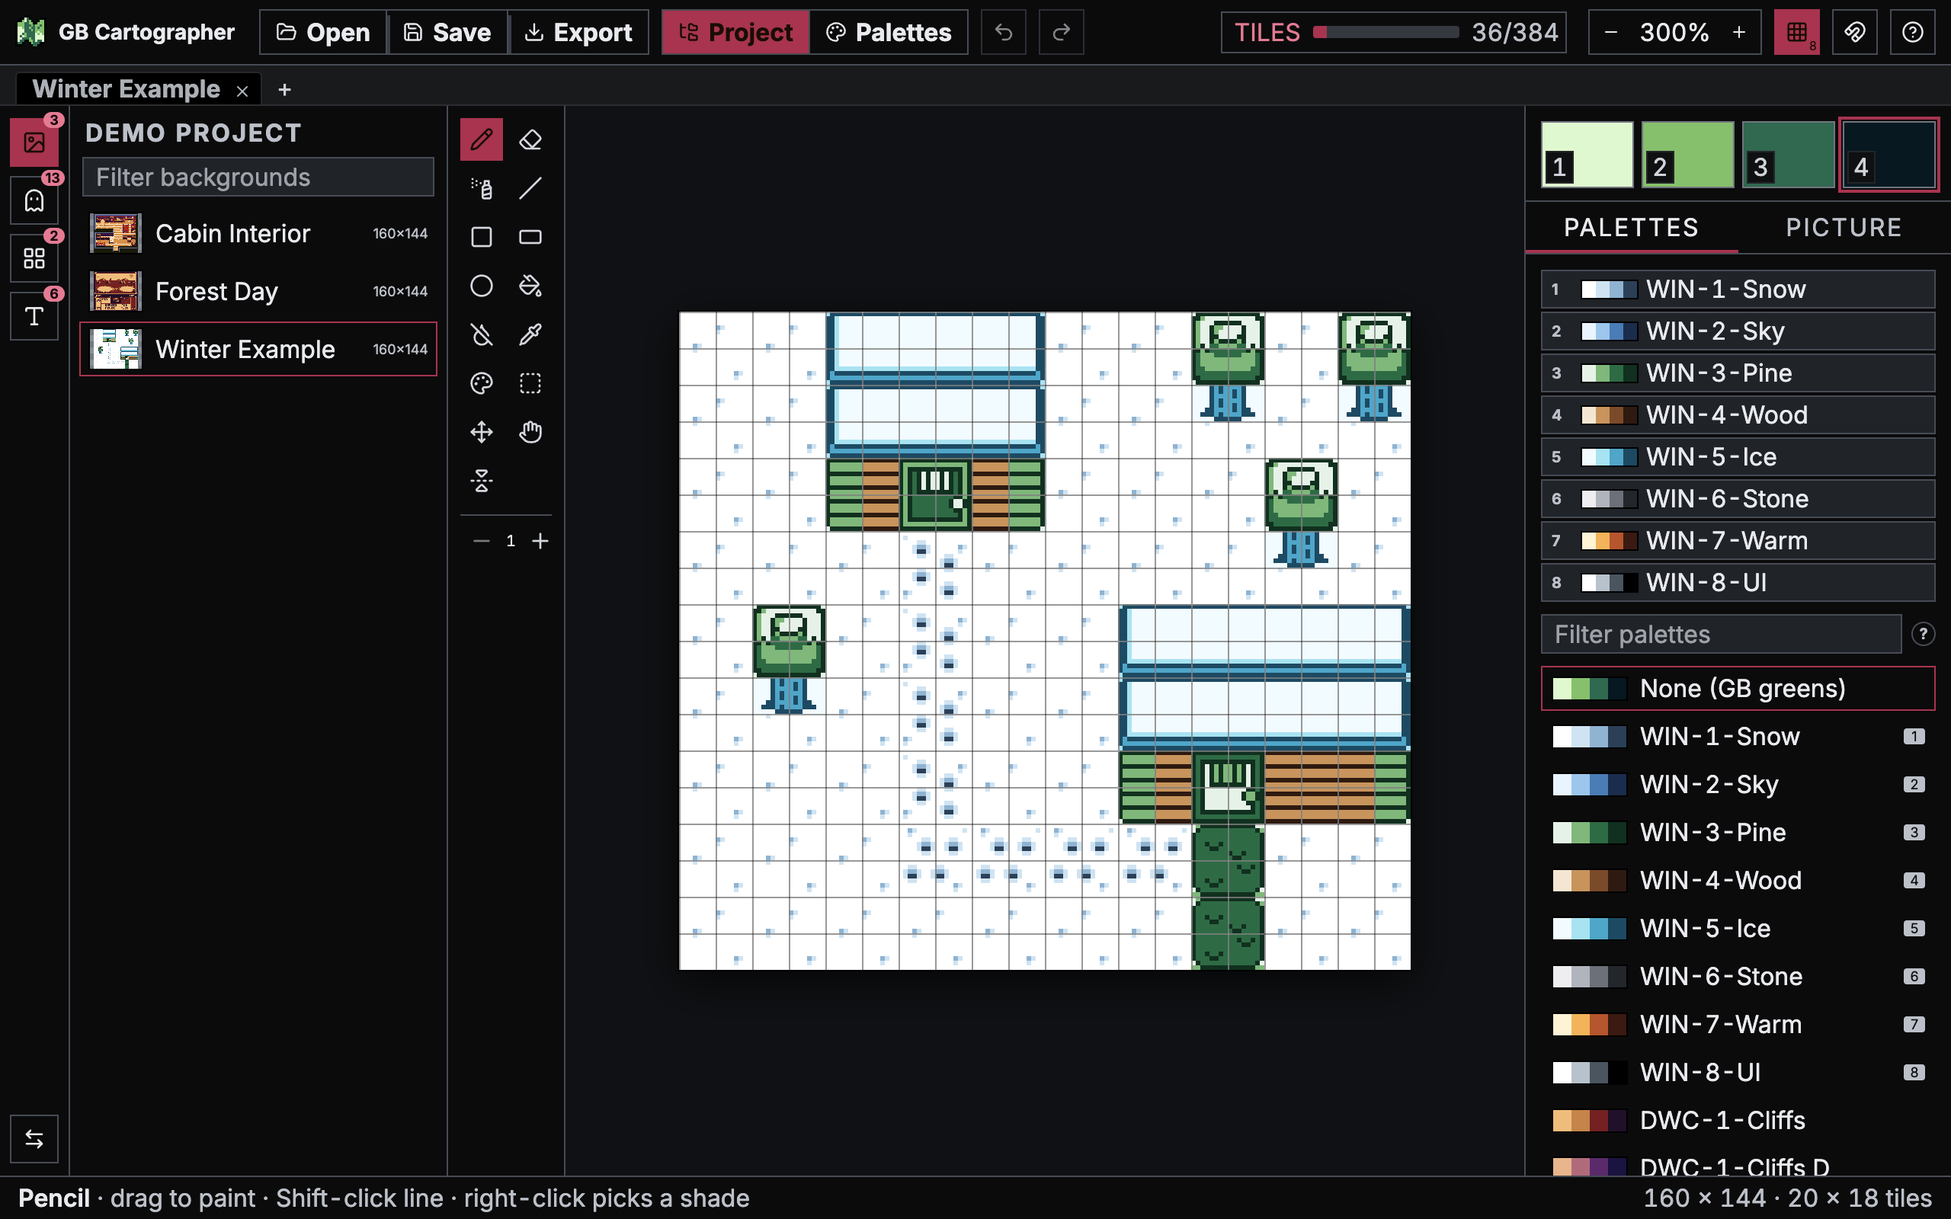
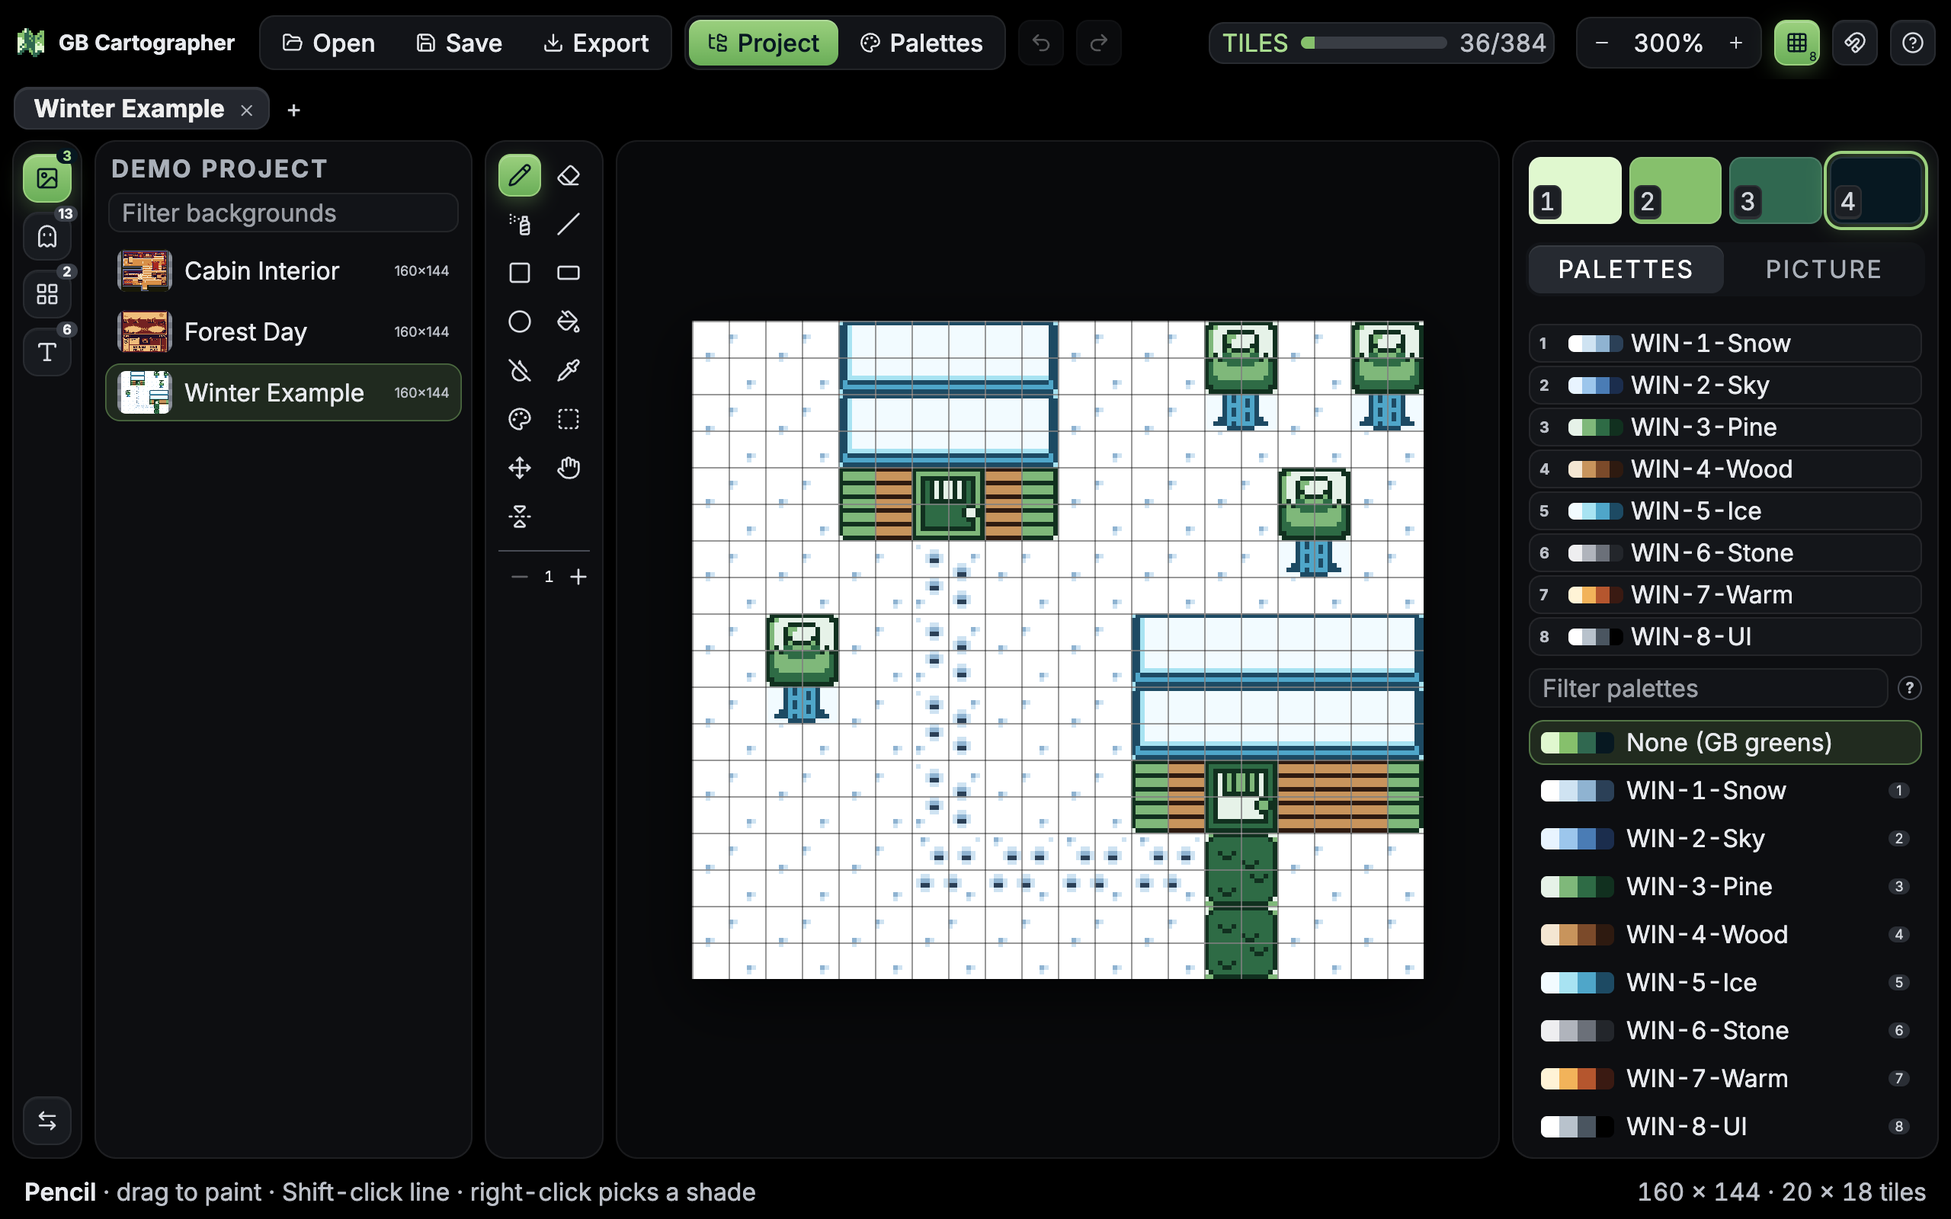
Soft cards restyle and a Game Boy green accent; new README screenshot
Panels are rounded cards, controls rounded layers of gray with a lit accent, tabs and segmented groups
pills. The accent is the Game Boy's mid green with the darkest green for text on it (mauve and maroon
looked too much like GB Studio's pink). The start screen, frames strip and palette manager follow.
The screenshot script hides the toast instead of removing it, which crashed the page.

diff --git a/src/paint.css b/src/paint.css
@@ -303,3 +303,86 @@
 .tool-button:disabled, .quiet-button:disabled, .icon-button:disabled { opacity: .55; }
 .gbp-asset-size, .gbp-frame small, .gbp-slot-button b, .gbp-asset-name { color: var(--muted); }
 .gbp-asset-name { color: var(--ink); }
+
+/* =====================================================================================================
+   Soft cards (the author's pick, 2026-10-09; mockup in review/ui-round3): rounded layers of gray, panels as
+   floating cards, gentle depth, a lit accent. The accent is the Game Boy's mid green; text on it is the darkest.
+   ===================================================================================================== */
+:root { --b-panel: #0d0e11; --b-ctl: #181b20; --b-ctl2: #20242a; --b-edge: rgba(255, 255, 255, .07); }
+:root .gbp-shell { background: #000; }
+:root .gbp-bar { background: #000; border: 0; padding: 10px 10px 6px; gap: 8px; }
+:root .quiet-button { background: var(--b-ctl); border: 1px solid var(--b-edge); border-radius: 8px; color: #e8eaee; min-height: 30px; padding: 0 12px; font-weight: 500; box-shadow: inset 0 1px 0 rgba(255,255,255,.05), 0 1px 2px rgba(0,0,0,.6); }
+:root .quiet-button:is(:hover,.is-hover):not(:disabled) { background: var(--b-ctl2); border-color: rgba(255,255,255,.12); }
+:root .quiet-button.is-down, :root .quiet-button:active:not(:disabled) { background: #121418; box-shadow: inset 0 2px 4px rgba(0,0,0,.6); transform: translateY(1px); }
+:root .quiet-button.active-tool, :root .icon-button.active-tool { background: linear-gradient(var(--acc-hi), var(--acc-lo)); border-color: var(--acc-hi); color: var(--on-acc); box-shadow: inset 0 1px 0 rgba(255,255,255,.22), 0 4px 14px rgba(var(--acc-rgb), .32); }
+:root .quiet-button.primary { background: linear-gradient(var(--acc-hi), var(--acc-lo)); border-color: var(--acc-hi); color: var(--on-acc); font-weight: 600; box-shadow: inset 0 1px 0 rgba(255,255,255,.22), 0 4px 14px rgba(var(--acc-rgb), .30); }
+:root .quiet-button.primary:is(:hover,.is-hover):not(:disabled) { background: linear-gradient(var(--acc-hi), var(--acc)); }
+:root .quiet-button.danger { color: #f08aa0; background: #1d1316; border-color: rgba(240,138,160,.2); }
+:root .quiet-button:disabled, :root .icon-button:disabled, :root .tool-button:disabled { opacity: .4; box-shadow: none; }
+:root .icon-button { background: var(--b-ctl); border: 1px solid var(--b-edge); border-radius: 8px; color: #d9dce2; box-shadow: inset 0 1px 0 rgba(255,255,255,.04); }
+:root .icon-button:is(:hover,.is-hover):not(:disabled) { background: var(--b-ctl2); color: #fff; }
+:root .icon-button.is-down { background: #121418; transform: translateY(1px); }
+:root .gbp-seg { background: #121418; border: 1px solid var(--b-edge); border-radius: 10px; padding: 2px; gap: 2px; overflow: visible; }
+:root .gbp-seg .quiet-button, :root .gbp-seg .icon-button { background: transparent; border: 0; border-radius: 8px; box-shadow: none; }
+:root .gbp-seg .quiet-button:is(:hover,.is-hover):not(:disabled) { background: var(--b-ctl2); }
+:root .gbp-seg .quiet-button.active-tool { background: linear-gradient(var(--acc-hi), var(--acc-lo)); box-shadow: inset 0 1px 0 rgba(255,255,255,.22); }
+:root .gbp-body { gap: 8px; padding: 6px 8px 8px; background: #000; }
+:root .gbp-rail, :root .gbp-project, :root .gbp-tools, :root .gbp-scroller, :root .gbp-side { background: var(--b-panel); border: 1px solid var(--b-edge); border-radius: 14px; }
+:root .gbp-scroller { background: #08090b; }
+:root .gbp-tools { border-radius: 14px; }
+:root .tool-button { background: transparent; border: 1px solid transparent; border-radius: 8px; color: #d9dce2; box-shadow: none; }
+:root .tool-button:is(:hover,.is-hover):not(:disabled) { background: var(--b-ctl2); color: #fff; }
+:root .tool-button.active { background: linear-gradient(var(--acc-hi), var(--acc-lo)); border-color: var(--acc-hi); color: var(--on-acc); border-radius: 8px; box-shadow: inset 0 1px 0 rgba(255,255,255,.22), 0 4px 12px rgba(var(--acc-rgb), .32); }
+:root .map-tabs { background: #000; border: 0; padding: 4px 10px 0; gap: 4px; min-height: 34px; }
+:root .map-tab { background: var(--b-ctl); border: 1px solid var(--b-edge); border-radius: 10px; color: #b3b8c0; padding: 0 6px 0 12px; min-height: 28px; align-self: center; }
+:root .map-tab.active { background: #262a31; color: #fff; box-shadow: inset 0 1px 0 rgba(255,255,255,.08); }
+:root .map-tab:is(:hover,.is-hover) { background: var(--b-ctl2); color: #fff; }
+:root .gbp-rail .icon-button { border-radius: 10px; }
+:root .gbp-rail .icon-button b, :root .gbp-pm-rail .icon-button b { background: #3a3f48; color: #f0f2f5; border-radius: 8px; }
+:root .gbp-rail .icon-button.active-tool b { background: var(--on-acc); color: var(--acc-text); }
+:root .gbp-project h2, :root .eyebrow { color: #aab0b9; }
+:root .gbp-asset { background: transparent; border: 0; border-radius: 10px; padding: 5px 8px; }
+:root .gbp-asset:is(:hover,.is-hover) { background: #15171b; }
+:root .gbp-asset.open { background: #14161a; }
+:root .gbp-asset.selected { background: rgba(var(--acc-rgb), .16); border: 0; box-shadow: inset 0 0 0 1px rgba(var(--acc-rgb), .5); }
+:root .gbp-asset img { border: 0; border-radius: 6px; }
+:root .gbp-wrap { box-shadow: 0 12px 40px rgba(0,0,0,.7); border-radius: 4px; }
+:root .gbp-side-tabs { border: 0; background: #121418; margin: 8px; border-radius: 10px; padding: 2px; gap: 2px; }
+:root .gbp-side-tabs button { border-radius: 8px; color: #aab0b9; padding: 6px 0; }
+:root .gbp-side-tabs button.selected { background: #262a31; color: #fff; box-shadow: inset 0 1px 0 rgba(255,255,255,.08); }
+:root .gbp-side-shades { padding: 10px 10px 4px; }
+:root .gbp-palettes button { background: transparent; border: 0; border-radius: 10px; padding: 5px 8px; }
+:root .gbp-palettes button:is(:hover,.is-hover) { background: #15171b; }
+:root .gbp-palettes button.selected { background: rgba(var(--acc-rgb), .16); border: 0; box-shadow: inset 0 0 0 1px rgba(var(--acc-rgb), .5); }
+:root .gbp-slot { background: #2a2e35; color: #d4d8de; border-radius: 6px; }
+:root .gbp-slot-button { background: #14161a; border: 1px solid var(--b-edge); border-radius: 8px; }
+:root .gbp-slot-button.selected { background: rgba(var(--acc-rgb), .18); border-color: rgba(var(--acc-rgb), .6); }
+:root .gbp-chips { border: 0; border-radius: 4px; overflow: hidden; }
+:root .pixel-swatches button { border: 1px solid rgba(255,255,255,.12); border-radius: 8px; }
+:root .pixel-swatches button.selected { outline: 2px solid var(--acc-hi); outline-offset: 2px; box-shadow: 0 0 14px rgba(var(--acc-rgb), .5); }
+:root input[type="search"], :root input[type="text"], :root select, :root .gbp-filter { background: #121418; border: 1px solid var(--b-edge); border-radius: 8px; color: #e8eaee; }
+:root input[type="search"]:is(:focus,.is-focus), :root input[type="text"]:is(:focus,.is-focus), :root select:is(:focus,.is-focus), :root .gbp-filter:is(:focus,.is-focus) { border-color: var(--acc-hi); outline: none; box-shadow: 0 0 0 3px rgba(var(--acc-rgb), .28); }
+:root .gbp-tiles { background: var(--b-ctl); border: 1px solid var(--b-edge); border-radius: 10px; }
+:root .gbp-tiles-track { border-radius: 4px; }
+:root .gbp-status { background: #000; border: 0; padding: 4px 16px 8px; }
+:root .gbp-modal { background: #0f1013; border: 1px solid rgba(255,255,255,.08); border-radius: 16px; box-shadow: 0 30px 80px rgba(0,0,0,.8); }
+:root .gbp-modal-head { border-bottom: 1px solid var(--b-edge); }
+:root .gbp-toast { background: #1a1d22; border: 1px solid var(--b-edge); border-radius: 999px; padding: 8px 18px; box-shadow: 0 10px 30px rgba(0,0,0,.6); }
+:root kbd { background: #1c1f24; border: 1px solid var(--b-edge); border-bottom-width: 2px; border-radius: 5px; color: #d2d6dc; }
+
+/* Soft cards: the start screen, the frames strip and the font sample follow the same language. */
+:root .gbp-start-card { background: var(--b-panel); border: 1px solid var(--b-edge); border-radius: 14px; box-shadow: inset 0 1px 0 rgba(255, 255, 255, .04), 0 2px 10px rgba(0, 0, 0, .45); }
+:root .gbp-start-card:hover { background: var(--b-ctl); border-color: rgba(255, 255, 255, .14); }
+:root .gbp-start-card.primary { border-color: rgba(var(--acc-rgb), .6); box-shadow: inset 0 1px 0 rgba(255, 255, 255, .06), 0 4px 18px rgba(var(--acc-rgb), .16); }
+:root .gbp-start-ic { background: var(--b-ctl); border: 1px solid var(--b-edge); border-radius: 10px; }
+:root .gbp-start-icon { border-radius: 22px; box-shadow: 0 10px 30px rgba(0, 0, 0, .6); }
+:root .gbp-start-row { border-radius: 10px; }
+:root .gbp-start-row:hover { background: var(--b-panel); border-color: var(--b-edge); }
+:root .gbp-frames { background: var(--b-panel); border: 1px solid var(--b-edge); border-radius: 12px; box-shadow: 0 6px 20px rgba(0, 0, 0, .5); }
+:root .gbp-frame { border: 1px solid var(--b-edge); border-radius: 8px; }
+:root .gbp-frame.selected { outline: 2px solid var(--acc-hi); outline-offset: 1px; box-shadow: 0 0 12px rgba(var(--acc-rgb), .4); }
+:root .gbp-sample-canvas { border: 1px solid var(--b-edge); border-radius: 6px; }
+:root .gbp-help-body table td { border-bottom-color: var(--b-edge); }
+:root .gbp-pm-color input[type="color"] { border: 1px solid var(--b-edge); border-radius: 10px; padding: 3px; background: var(--b-ctl); }
+:root .gbp-palette-colors input { border: 1px solid var(--b-edge); border-radius: 8px; background: var(--b-ctl); }
+:root .gbp-frame-slice { outline-color: var(--acc-hi); }

diff --git a/src/ui/theme.ts b/src/ui/theme.ts
@@ -9,7 +9,7 @@
  */
 import { LIGHT_TOKENS } from "./themeTokens";
 
-export type ThemeChoice = "shuffle" | "oled" | "oled-maroon" | "oled-green" | "slate" | "dmg" | "pocket" | "berry";
+export type ThemeChoice = "shuffle" | "oled" | "oled-gb" | "oled-green" | "slate" | "dmg" | "pocket" | "berry";
 export type FontChoice = "inter" | "mono" | "dyslexic" | "pixel";
 
 export interface ThemeInfo {
@@ -20,13 +20,13 @@ export interface ThemeInfo {
   colors?: string[];
 }
 
-/** One theme for now (the author's call, 2026-10-09): OLED Maroon (it began as mauve). The others stay here, unlisted, for later. */
+/** One theme for now (the author's call, 2026-10-09): OLED Game Boy green (it began as mauve, then maroon). The others stay here, unlisted, for later. */
 export const THEMES: ThemeInfo[] = [
-  { id: "oled-maroon", label: "OLED maroon", title: "OLED maroon: true black with a maroon accent" },
+  { id: "oled-gb", label: "OLED Game Boy green", title: "OLED Game Boy green: true black with the two Game Boy greens as the accent" },
   { id: "slate", label: "Slate", title: "Slate: neutral dark gray, orange accent" },
   { id: "oled", label: "OLED orange", title: "OLED orange: true black with an orange accent" },
   { id: "oled-green", label: "OLED green", title: "OLED green: true black with a Game Boy green accent" },
-  { id: "shuffle", label: "Shuffle", title: "Shuffle: OLED black with an orange, maroon or green accent, a new pick every launch" },
+  { id: "shuffle", label: "Shuffle", title: "Shuffle: OLED black with an orange, Game Boy green or green accent, a new pick every launch" },
   { id: "dmg", label: "DMG", title: "DMG: the original Game Boy's four greens", colors: ["#9BBC0F", "#8BAC0F", "#306230", "#0F380F"] },
   { id: "pocket", label: "Pocket", title: "Pocket: the Game Boy Pocket's four grays", colors: ["#C4CFA1", "#8B956D", "#4D533C", "#1F1F1F"] },
   { id: "berry", label: "Berry", title: "Berry: Game Boy Color grape", colors: ["#F0E0F8", "#B48CDC", "#5A3A8C", "#1C0F2E"] },
@@ -65,12 +65,12 @@ export function themeColors(choice: ThemeChoice): string[] | null {
 }
 
 export function loadTheme(): ThemeChoice {
-  // One theme for now: whatever was saved, the app wears OLED Maroon.
+  // One theme for now: whatever was saved, the app wears OLED Game Boy green.
   void read(THEME_KEY);
-  return "oled-maroon";
+  return "oled-gb";
 }
 
-const SHUFFLE: ThemeChoice[] = ["oled", "oled-maroon", "oled-green"];
+const SHUFFLE: ThemeChoice[] = ["oled", "oled-gb", "oled-green"];
 /** This launch's Shuffle pick: one per page load, so it changes on every reload. */
 const SHUFFLE_PICK: ThemeChoice = SHUFFLE[Math.floor(Math.random() * SHUFFLE.length)];
 
@@ -151,7 +151,7 @@ export function applyTheme(choice: ThemeChoice, remember = true) {
   appliedTokens.forEach((name) => root.style.removeProperty(name));
   appliedTokens = [];
   const colors = themeColors(shown);
-  const accent = shown === "oled-maroon" ? "maroon" : shown === "oled-green" ? "green" : null;
+  const accent = shown === "oled-gb" ? "gb" : shown === "oled-green" ? "green" : null;
   if (accent) root.dataset.accent = accent;
   else delete root.dataset.accent;
   if (colors) {

diff --git a/src/ui/theme.css b/src/ui/theme.css
@@ -413,7 +413,8 @@ input:focus-visible, select:focus-visible, textarea:focus-visible { outline: non
 }
 .quiet-button.danger:not(:disabled), .icon-button.danger:not(:disabled) { color: var(--danger-text); }
 .quiet-button.danger:not(:disabled):hover, .icon-button.danger:not(:disabled):hover { color: #fff; background-color: var(--danger); border-color: var(--danger); }
-:root[data-accent="maroon"] { --red: #a8344f; --on-red: #fff1ef; --red-text: #e57b93; }
+:root[data-accent="gb"] { --red: #86c06c; --on-red: #071821; --red-text: #a9dc8f; --acc: #86c06c; --acc-hi: #9bd07e; --acc-lo: #6aae58; --acc-deep: #306850; --acc-rgb: 134, 192, 108; --on-acc: #071821; --acc-text: #a9dc8f; }
+:root { --acc: #86c06c; --acc-hi: #9bd07e; --acc-lo: #6aae58; --acc-deep: #306850; --acc-rgb: 134, 192, 108; --on-acc: #071821; --acc-text: #a9dc8f; }
 :root[data-accent="green"] { --red: #8bac0f; --on-red: #0f380f; --red-text: #a9c83c; }
 :root { --asset-bg: #464a53; }
 input[type="number"] { font-family: var(--mono); }

diff --git a/scripts/screenshot-demo.js b/scripts/screenshot-demo.js
@@ -4,5 +4,5 @@ await new Promise((r) => setTimeout(r, 500));
 const row = [...document.querySelectorAll('.gbp-asset')].find((b) => b.textContent.includes('Winter'));
 row && row.click();
 await new Promise((r) => setTimeout(r, 3000));
-document.querySelector('.gbp-toast')?.remove();
+{ const toast = document.querySelector('.gbp-toast'); if (toast) toast.style.visibility = 'hidden'; }
 return [document.title, [...document.querySelectorAll('.map-tab span')].map((e) => e.textContent)];

diff --git a/PROGRESS.md b/PROGRESS.md
@@ -25,7 +25,7 @@ server layer (`server/`) and the Electron shell (`electron/`). Nothing from any 
   painted slice; sidecars rewritten as GB Studio writes them, two-space JSON, no trailing newline).
 - **Project panel**: Backgrounds · Sprites · Tilesets with counts, a name filter, lazy thumbnails; the open
   picture's row outlined; the picked project's eight palettes lead the palette list with slot tags.
-- **Themes and fonts** (`src/ui/theme.ts`): OLED maroon (the only one offered for now; Slate, OLED orange / green and Shuffle stay in the code), and and palette
+- **Themes and fonts** (`src/ui/theme.ts`): OLED Game Boy green (the only one offered for now; Slate, OLED orange / green and Shuffle stay in the code), and and palette
   themes DMG, Pocket, Berry computed from four colours; fonts JetBrains Mono, Public Pixel (8 px steps), OpenDyslexic.
 
 ### Decisions
@@ -51,7 +51,7 @@ server layer (`server/`) and the Electron shell (`electron/`). Nothing from any 
   the palette brush. Open pictures whose copy of an edited palette was unchanged take the new colors.
 
 ### Layout A, start screen, frames (2026-10-09, evening)
-- One theme, OLED Maroon, with a maroon accent (`#a8344f`, text on it `#fff1ef`, accent text `#e57b93`) on every active state. It began as mauve (`#b58ba6`, then `#c489ab`); the author asked for maroon on 2026-10-09. Layout A from the mockups:
+- One theme, OLED Game Boy green: the accent is the Game Boy's mid green (`#86c06c`, lit `#9bd07e`, shaded `#6aae58`, dark text `#071821` on it; the deep green `#306850` is `--acc-deep`) on every active state. It began as mauve, then maroon; the author found pink too GB Studio and asked for the two Game Boy greens on 2026-10-09. Layout A from the mockups:
   one toolbar row, a kind rail with counts, the thumbnail list, the inspector as a shades row plus Palettes /
   Picture tabs with the scene's eight slots as a strip, short tool hints in the status bar, the long text and
   all keys behind a ? help panel. Tint, tile budget and Font live in the Picture tab.
@@ -81,6 +81,13 @@ server layer (`server/`) and the Electron shell (`electron/`). Nothing from any 
 - The UI font is Inter (JetBrains Mono, Public Pixel and OpenDyslexic are options); tools sit in two compact
   columns; grays are much lighter. `npm run screenshot` (headless Edge or Chrome over the DevTools protocol)
   makes `docs/screenshot.png`; Electron-based capture crashes on this machine.
+
+- Soft cards (the author's pick of three mockups, `review/ui-round3`): panels are rounded cards with gaps, controls are
+  rounded layers of gray with a lit accent, tabs and segmented groups are pills, the start screen, frames strip and
+  palette manager follow. It is the last block of `src/paint.css`, built on the `--b-*` surface variables and the
+  `--acc*` accent variables from `src/ui/theme.css`.
+- Screenshot scripts must never remove `.gbp-toast` by hand (React then crashes on unmount and the page paints
+  black): hide it with `visibility` instead.
 
 ### Known issues
 - Inter and JetBrains Mono load from Google Fonts: offline, the app falls back to the system font.

diff --git a/docs/SPEC.md b/docs/SPEC.md
@@ -10,7 +10,7 @@ GB Cartographer is a small app: a painter for **Game Boy PNGs** (exported backgr
 
 - Desktop: `npm run desktop` builds the page and opens it in an Electron window titled "GB Cartographer", served from a local server on the fixed port **62932** (so browser storage persists between launches; a random port when it is busy).
 - Browser: the page on the development server (`npm run dev`).
-- Theme and font are chosen in its header (OLED maroon is the one theme offered; the code keeps Slate, OLED orange / green, Shuffle, DMG, Pocket and Berry; JetBrains Mono, Public Pixel, OpenDyslexic) and remembered per browser. Its browser tab title is "GB Cartographer", or "• name · GB Cartographer" with a bullet while the picture has unsaved changes.
+- Theme and font are chosen in its header (OLED Game Boy green (soft-card panels, a green accent) is the one theme offered; the code keeps Slate, OLED orange / green, Shuffle, DMG, Pocket and Berry; JetBrains Mono, Public Pixel, OpenDyslexic) and remembered per browser. Its browser tab title is "GB Cartographer", or "• name · GB Cartographer" with a bullet while the picture has unsaved changes.
 - It has no system-menu integration of its own.
 
 ## 3 The picture model

diff --git a/TODO.md b/TODO.md
@@ -19,7 +19,10 @@ into PROGRESS.md when they deserve a note.
 
 ## UI pass (asked 2026-10-09)
 
-- [x] One theme for now: OLED Maroon (it began as mauve; the author wanted maroon). Other themes stay unlisted in theme.ts.
+- [x] One theme for now: OLED Game Boy green (mauve, then maroon, then the two Game Boy greens: pink felt too GB Studio).
+      Other themes stay unlisted in theme.ts.
+- [x] Soft cards restyle of every control, border and panel (picked from three mockups); the start screen, frames
+      strip and palette manager follow it.
 - [x] Layout A (chosen from three mockups in `review/mockups-2026-10-09`): one toolbar row with grouped buttons,
       a kind rail with counts, the thumbnail list, the inspector as a shades row + Palettes / Picture tabs, the
       scene's eight palette slots as a strip at the top of Palettes (borrowed from mockup B), short tool hints in
